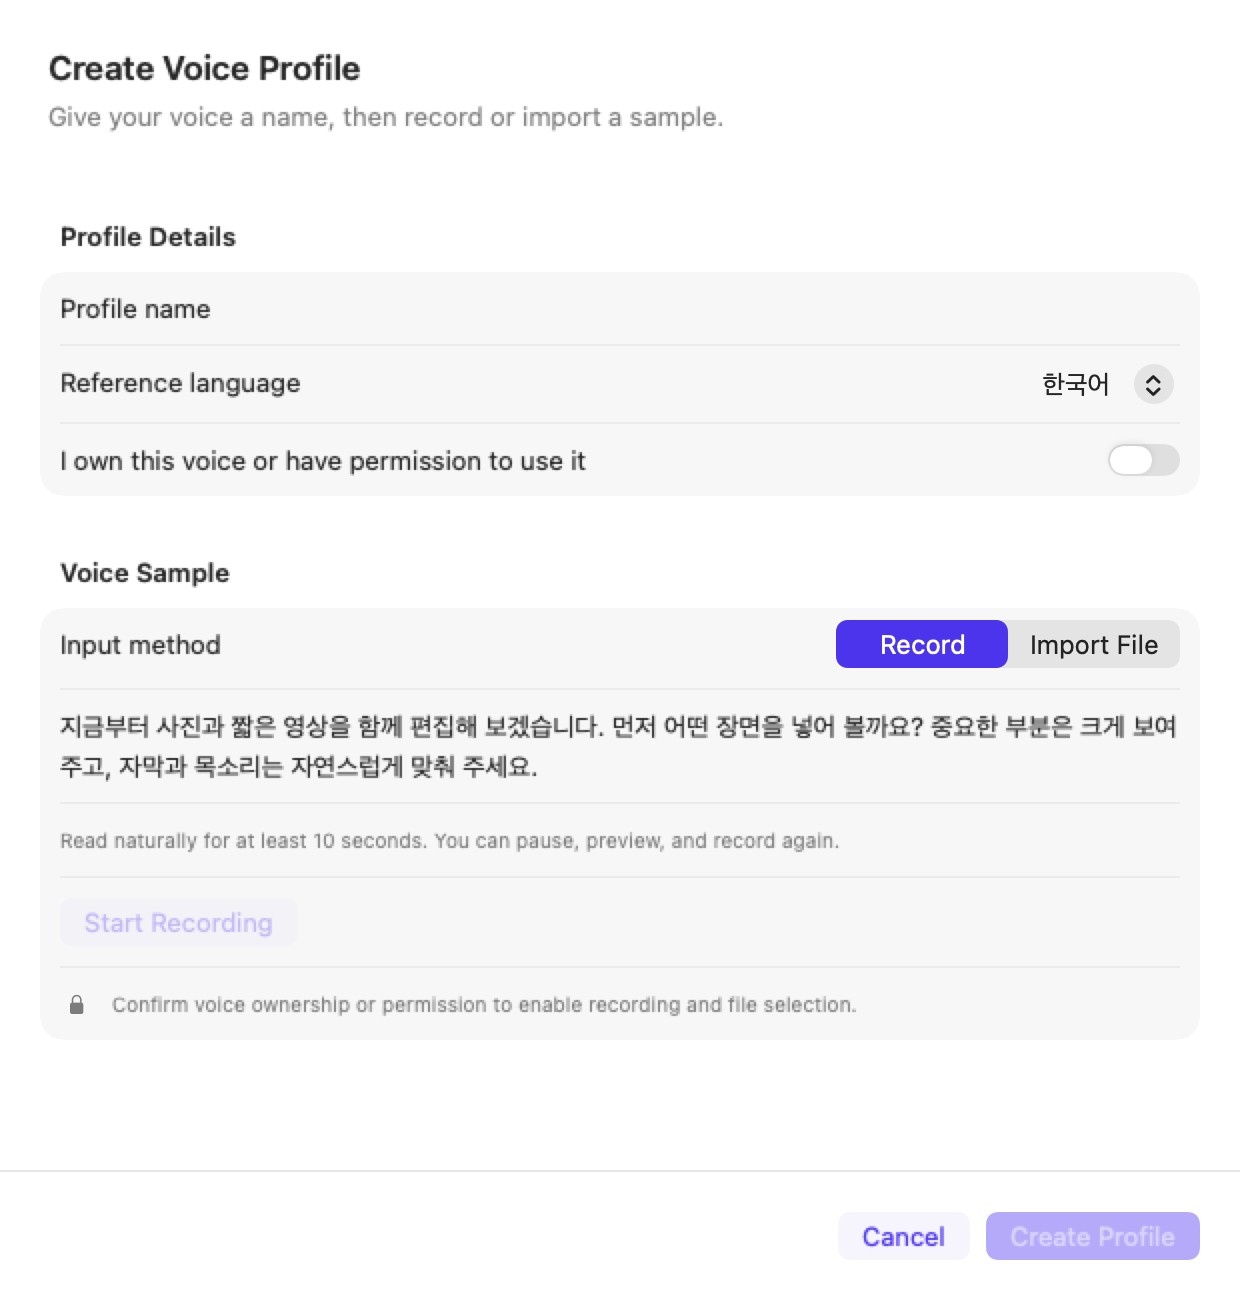
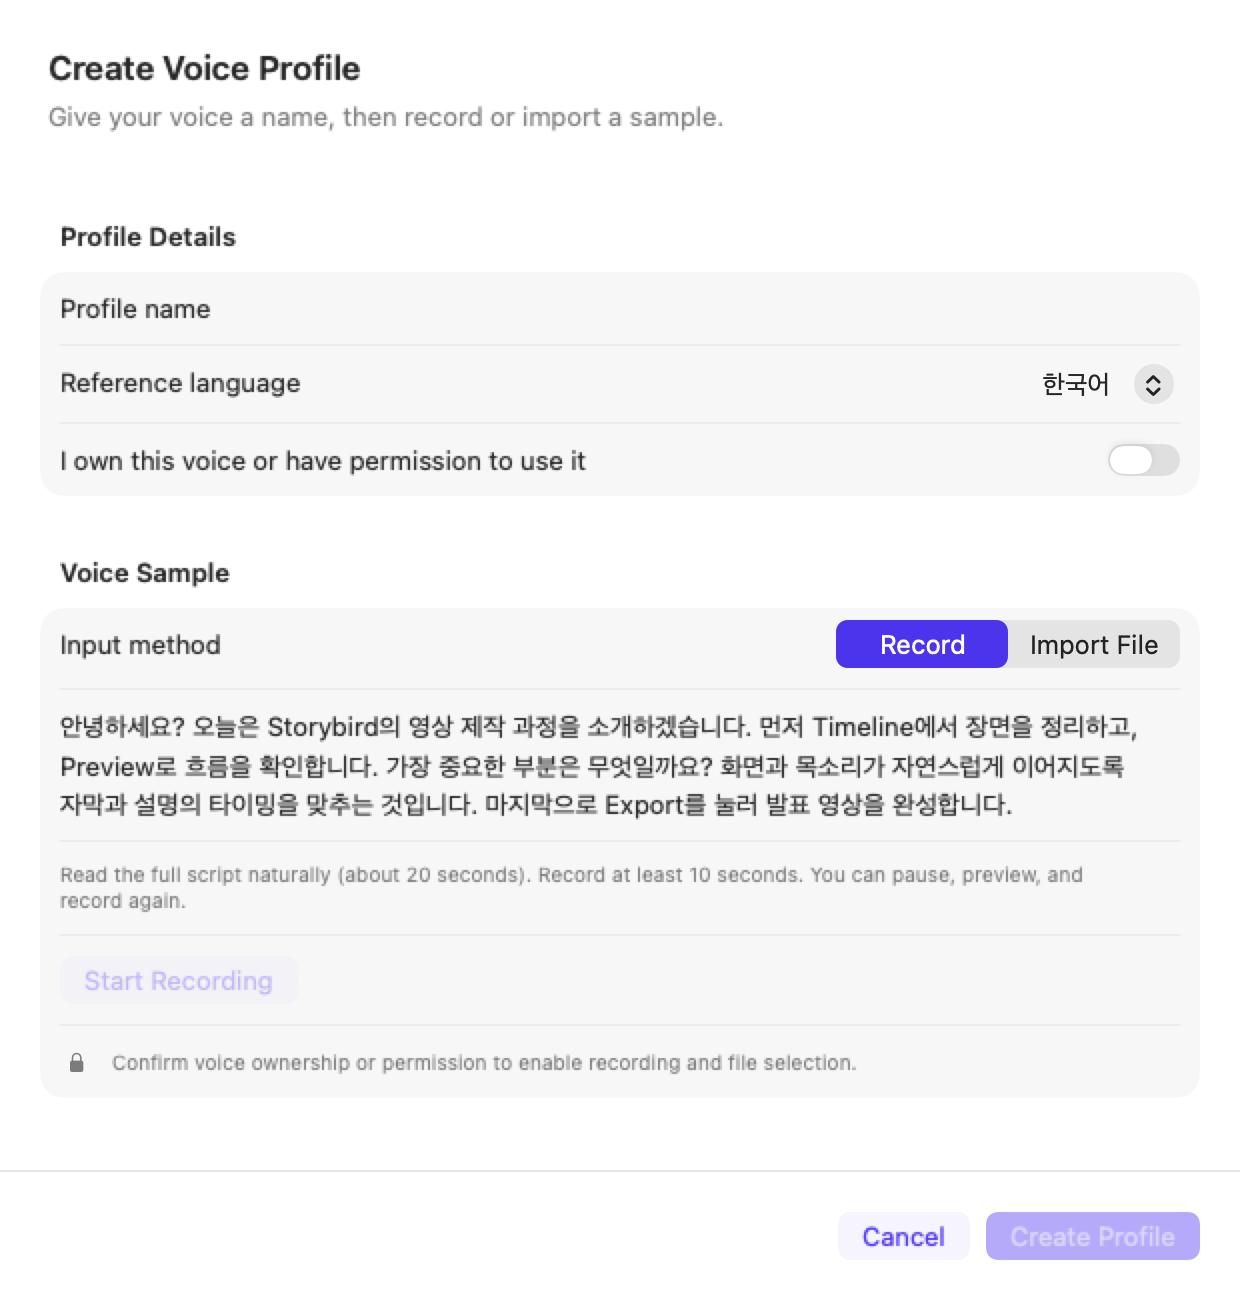
feat(authoring): refine voice reference scripts for presentations

Changed region(s): [[0.0306, 0.5538, 0.95, 0.8308]]

diff --git a/Tests/StorybirdTests/AppStoreTests.swift b/Tests/StorybirdTests/AppStoreTests.swift
@@ -312,36 +312,39 @@ final class AppStoreTests: XCTestCase {
         )
     }
 
-    func test_voiceRecordingPrompt_defaultKoreanSpeechFitsTargetDuration() async throws {
-        let output = temporaryDirectory()
-            .appendingPathComponent("guided-prompt.aiff")
+    func test_voiceRecordingPrompt_defaultSpeechFitsPresentationTargetDuration() async throws {
+        let directory = temporaryDirectory()
         defer {
             try? FileManager.default.removeItem(
-                at: output.deletingLastPathComponent()
+                at: directory
             )
         }
         try FileManager.default.createDirectory(
-            at: output.deletingLastPathComponent(),
+            at: directory,
             withIntermediateDirectories: true
         )
-        let process = Process()
-        process.executableURL = URL(fileURLWithPath: "/usr/bin/say")
-        process.arguments = [
-            "-v", "Yuna",
-            "-o", output.path,
-            VoiceStudioView.recordingPrompt,
-        ]
-        try process.run()
-        process.waitUntilExit()
-        guard process.terminationStatus == 0 else {
-            throw XCTSkip("The macOS Yuna Korean voice is unavailable.")
-        }
+        for (language, voice) in [(VoiceLanguage.korean, "Yuna"), (.english, "Samantha")] {
+            let output = directory.appendingPathComponent("\(language.rawValue)-prompt.aiff")
+            let process = Process()
+            process.executableURL = URL(fileURLWithPath: "/usr/bin/say")
+            process.arguments = [
+                "-v", voice,
+                "-o", output.path,
+                language.referencePrompt,
+            ]
+            try process.run()
+            process.waitUntilExit()
+            guard process.terminationStatus == 0 else {
+                throw XCTSkip("The macOS \(voice) voice is unavailable.")
+            }
 
-        let duration = CMTimeGetSeconds(
-            try await AVURLAsset(url: output).load(.duration)
-        )
-        XCTAssertGreaterThanOrEqual(duration, 10)
-        XCTAssertLessThanOrEqual(duration, 15)
+            let duration = CMTimeGetSeconds(
+                try await AVURLAsset(url: output).load(.duration)
+            )
+            // A local speech estimate guards the approximate target, not a human's pace.
+            XCTAssertGreaterThanOrEqual(duration, 17, "\(language) reference is too short.")
+            XCTAssertLessThanOrEqual(duration, 23, "\(language) reference is too long.")
+        }
     }
 
     func test_importVoiceProfile_acceptsMP3() async throws {

diff --git a/Sources/StorybirdCore/VoiceLanguage.swift b/Sources/StorybirdCore/VoiceLanguage.swift
@@ -10,15 +10,20 @@ public enum VoiceLanguage: String, CaseIterable, Sendable {
         }
     }
 
+    /// Reading-time guidance, separate from the minimum recording duration.
+    public var referenceDurationDescription: String {
+        "about 20 seconds"
+    }
+
     /// Original narration examples, not a benchmarked "best" cloning passage.
     /// Keep complete, connected sentences suited to the intended speaking style.
     /// Recording guidance: https://help.aliyun.com/zh/model-studio/qwen-tts-realtime-voice-replica
     public var referencePrompt: String {
         switch self {
         case .korean:
-            "지금부터 사진과 짧은 영상을 함께 편집해 보겠습니다. 먼저 어떤 장면을 넣어 볼까요? 중요한 부분은 크게 보여 주고, 자막과 목소리는 자연스럽게 맞춰 주세요."
+            "안녕하세요? 오늘은 Storybird의 영상 제작 과정을 소개하겠습니다. 먼저 Timeline에서 장면을 정리하고, Preview로 흐름을 확인합니다. 가장 중요한 부분은 무엇일까요? 화면과 목소리가 자연스럽게 이어지도록 자막과 설명의 타이밍을 맞추는 것입니다. 마지막으로 Export를 눌러 발표 영상을 완성합니다."
         case .english:
-            "Let's turn these photos and short clips into a video. Which scene should we choose first? Keep the key details clear, then add captions and a voice that fits the story."
+            "Hello! Today, I'll show you how Storybird turns a recording into a clear presentation. What should your audience notice first? Choose the key moment, add a caption, and let the narration guide them. Notice how each step keeps the message clear. Timing matters: pause, preview the result, then export a video that's ready to share."
         }
     }
 }

diff --git a/Sources/Storybird/VoiceProfileCreationView.swift b/Sources/Storybird/VoiceProfileCreationView.swift
@@ -75,7 +75,7 @@ struct VoiceProfileCreationView<Recorder: VoiceSampleRecording>: View {
                                 .font(.body)
                                 .lineSpacing(4)
                                 .textSelection(.enabled)
-                            Text("Read naturally for at least 10 seconds. You can pause, preview, and record again.")
+                            Text("Read the full script naturally (\(model.referenceLanguage.referenceDurationDescription)). Record at least 10 seconds. You can pause, preview, and record again.")
                                 .font(.caption)
                                 .foregroundStyle(.secondary)
                             Button(isStarting ? "Starting…" : "Start Recording") {
@@ -95,6 +95,7 @@ struct VoiceProfileCreationView<Recorder: VoiceSampleRecording>: View {
                         recorder: recorder,
                         preview: preview,
                         prompt: model.referenceLanguage.referencePrompt,
+                        targetDurationDescription: model.referenceLanguage.referenceDurationDescription,
                         isWorking: model.isSaving,
                         onRestart: restartRecording,
                         onError: { model.errorMessage = $0.localizedDescription }

diff --git a/Sources/Storybird/GuidedVoiceRecordingSection.swift b/Sources/Storybird/GuidedVoiceRecordingSection.swift
@@ -4,6 +4,7 @@ struct GuidedVoiceRecordingSection<Recorder: VoiceSampleRecording>: View {
     @ObservedObject var recorder: Recorder
     @ObservedObject var preview: VoicePreviewPlayer
     let prompt: String
+    let targetDurationDescription: String
     let isWorking: Bool
     let onRestart: () -> Void
     let onError: (Error) -> Void
@@ -80,7 +81,7 @@ struct GuidedVoiceRecordingSection<Recorder: VoiceSampleRecording>: View {
                 .foregroundStyle(.secondary)
             }
             Spacer()
-            Text("Target: 10–15 seconds")
+            Text("Target: \(targetDurationDescription)")
                 .font(.caption)
                 .foregroundStyle(.secondary)
         }

diff --git a/docs/MCPFeatureParity.md b/docs/MCPFeatureParity.md
@@ -74,6 +74,7 @@ project-editing tools. Changing their scope requires checking the owning ADR.
 | Import an external MP4/MOV | User chooses one file in the native picker; MCP edits the resulting project | [Video import](adr/video-import/0001-local-video-import.md) |
 | Import an external WAV/MP3/M4A or record project audio | Native file choice or explicit microphone recording; MCP reuses registered audio assets | [Voice/audio](adr/voice-narration/0001-local-cloned-voice-narration.md), [permissions](adr/recording/0003-permission-and-signing.md) |
 | Download/prepare the voice model; create, rename or delete a voice profile | Native Settings and consent; MCP lists existing metadata and synthesizes from existing profiles | [Voice](adr/voice-narration/0001-local-cloned-voice-narration.md) |
+| Read the guided reference script and its target duration | Native profile creation: Korean and English use approximately 20-second presentation scripts beginning with a greeting, with questions, emphasis, and pauses. Korean includes English feature names. Both retain a 10-second recording minimum. MCP uses existing profiles without exposing reference transcripts | [Voice](adr/voice-narration/0001-local-cloned-voice-narration.md) |
 | Listen to a voice profile's reference sample | Native preview; MCP metadata omits reference audio and exact reference transcript | [Voice](adr/voice-narration/0001-local-cloned-voice-narration.md) |
 | Select microphone, pause/resume/finalize microphone recording | Native recording UI; no MCP microphone start | [Voice](adr/voice-narration/0001-local-cloned-voice-narration.md), [permissions](adr/recording/0003-permission-and-signing.md) |
 | Change/reset project folder, open Finder, configure shortcuts | Native Settings is the entry point; MCP uses the currently selected library | [Settings](adr/application-settings/0001-native-settings-and-shortcuts.md) |

diff --git a/README.md b/README.md
@@ -211,10 +211,14 @@ Recorded samples and saved voice profiles play directly inside Storybird.
 Click the preview button again to stop playback; no external music app is needed.
 
 <div align="center">
-  <img src="docs/images/voice-profile-dialog-app.png" width="520" alt="The running profile creation modal with the synthetic name Demo narrator, Korean reference language, voice-use consent, recording prompt, and Cancel/Create Profile buttons" />
+  <img src="docs/images/voice-profile-dialog-app.png" width="520" alt="The profile creation modal with the name Synthetic narrator, Korean reference language, voice-use consent, a mixed-language presentation prompt, and Cancel/Create Profile buttons" />
 </div>
 
-The prompt takes about 10–15 seconds. Its language and microphone stay fixed for
+Both prompts are approximately 20-second presentations that begin with a greeting
+and include questions, emphasis, and brief pauses. The Korean prompt naturally
+includes English feature names in Korean sentences. Read the full script;
+the minimum recording length is 10 seconds.
+The selected language, script, and microphone stay fixed for
 that sample. A selected microphone is remembered across restarts; if it is
 unavailable, the next recording uses the system default while preserving your choice.
 

diff --git a/docs/adr/voice-narration/decision-log.md b/docs/adr/voice-narration/decision-log.md
@@ -4,6 +4,15 @@ This document is the **major decision-change history** of the voice-narration ca
 Each ADR body describes only the current state, while the timeline of "what changed and
 why" accumulates here, newest first. Git preserves the individual diffs.
 
+## 2026-09-11 — 음성 참조 대본을 인사로 시작하는 약 20초 발표로 구성한다
+
+- **Current ADR**: [local-cloned-voice-narration](./0001-local-cloned-voice-narration.md)
+- **Change type**: requirement rule change
+- **What**: 한국어·영어의 `10초...15초` 대본을 각각 해당 언어의 인사로 시작하는 약 `20초`
+  발표 대본으로 바꾼다. 한국어에는 영어 기능명을 자연스럽게 섞고, 두 언어 모두 질문·강조·쉼을
+  포함한다. 최소 녹음은 `10초`를 유지한다.
+- **Why**: 실제 발표에서 쓰는 혼합 발화와 다양한 억양, 충분한 설명 분량을 참조 음성에 담는다.
+
 ## 2026-09-10 — 생성한 음성 프로필의 표시 이름을 변경한다
 
 - **Current ADR**: [local-cloned-voice-narration](./0001-local-cloned-voice-narration.md)

diff --git a/CONTRIBUTING.md b/CONTRIBUTING.md
@@ -245,7 +245,10 @@ ScreenCaptureKit and TCC behavior require a real signed bundle:
     and duplicate creation; a save failure preserves inputs and shows an inline error.
 15. Select **Record**, grant Microphone access, and confirm the recording sheet shows the
     full prosody prompt, recording state, live waveform, elapsed time, and the
-    10-second boundary. Pause and resume once, then preview and save a recording
+    10-second boundary. Both languages target about 20 seconds and begin with a
+    greeting; Korean includes English feature names within presentation sentences.
+    Read the full script and confirm its ending remains reachable by scrolling.
+    Pause and resume once, then preview and save a recording
     of at least 10 seconds. Confirm a shorter sample cannot be finalized.
     Deny the permission once and confirm Storybird shows recovery guidance
     without changing a project. Cancel during recording or after preview and
